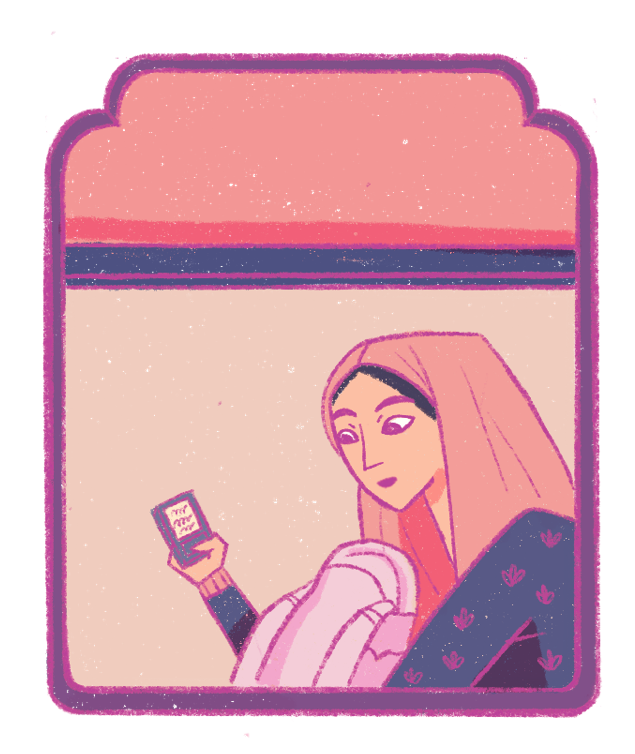
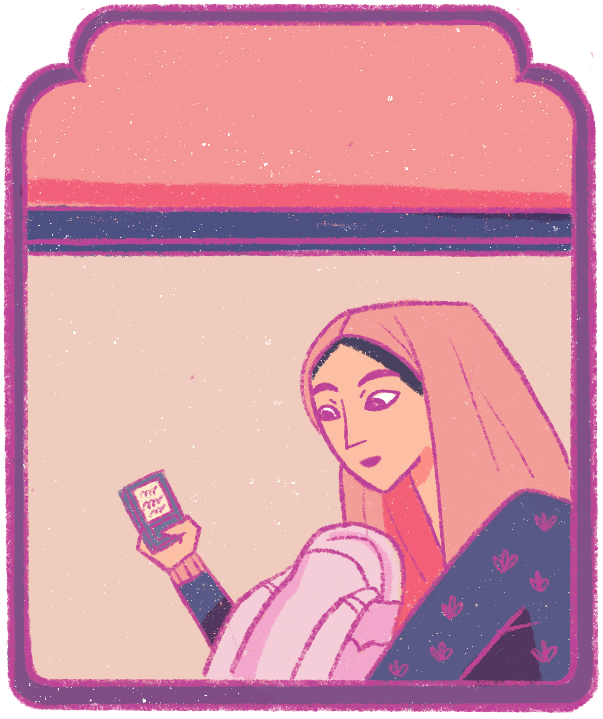
(feat) remove test pages. make homepage responsive. add acceptable styling to homepage

diff --git a/src/pages/index.js b/src/pages/index.js
@@ -1,0 +1,57 @@
+import React, { Fragment } from "react"
+import { Box, Heading, Text, Paragraph } from "grommet"
+import DefaultLayout from "../components/default-layout"
+import { ResponsiveImage } from "../components/atomic/ResponsiveImage"
+import { Link, ExternalLink } from "../components/atomic/TattleLinks"
+
+/**
+ * @author
+ * @function Index
+ **/
+
+const Index = props => {
+  return (
+    <DefaultLayout>
+      <Fragment>
+        <ResponsiveImage />
+        <Heading level={2}>Accurate Information to the People</Heading>
+        <Box direction={"column"} gap={"small"}>
+          <Text>
+            Tattle is a civic tech project that aims to make accurate
+            information more accessible to mobile first users, in languages that
+            they are comfortable with.
+          </Text>
+          <Text>
+            To this end, Tattle is creating an open archive of content
+            circulated on chat apps; and building open source data collection
+            tools and APIs to index and query the multimedia archive.
+          </Text>
+          <Text>
+            You can read more about the project{" "}
+            <Link to={"/faq"}>
+              {" "}
+              <Text>here</Text>{" "}
+            </Link>
+            .
+          </Text>
+          <Text>
+            Tattle was one of the winners of the{" "}
+            <ExternalLink
+              href={
+                "https://aiethicsinitiative.org/news/2019/3/12/announcing-the-winners-of-the-ai-and-the-news-open-challenge"
+              }
+              target="_blank"
+            >
+              <Text>
+                AI and the News Open Challenge which has enabled the project to
+                scale faster.
+              </Text>
+            </ExternalLink>
+          </Text>
+        </Box>
+      </Fragment>
+    </DefaultLayout>
+  )
+}
+
+export default Index

diff --git a/src/components/atomic/ResponsiveImage.js b/src/components/atomic/ResponsiveImage.js
@@ -39,15 +39,16 @@ export const ResponsiveImage = ({ data, imageName }) => {
   )
 
   return (
-    <Box
-      overflow={"auto"}
-      align={"center"}
-      height={{ max: "40em", min: "18em" }}
-    >
+    <Box overflow={"auto"} height={{ max: "32em", min: "12em" }}>
       {size === "small" ? (
         <Image fit="contain" src={narrow_image.childImageSharp.fluid.src} />
       ) : (
-        <Image fit="contain" src={wide_image.childImageSharp.fluid.src} />
+        <Image
+          alignSelf={"start"}
+          fit="contain"
+          fill={true}
+          src={wide_image.childImageSharp.fluid.src}
+        />
       )}
     </Box>
   )
